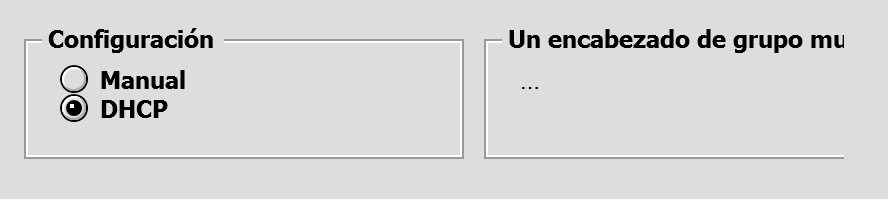
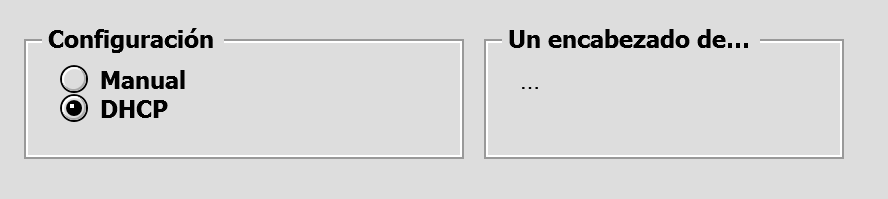
Cierra el recuadro cuyo título no cabe, y tres arreglos más
Un título más ancho que su recuadro dejaba el hueco de la máscara tan
largo como el marco entero. El tramo derecho de la máscara quedaba con
ancho negativo y desaparecían dos lados, el superior y el derecho, no uno.
Medido: en el corte del cuerpo no había filo derecho en cuatrocientos
píxeles.

El tope va sobre el ancho del propio título, con una resta. Un Grid de WPF
no encoge una columna Auto para que quepa —la deja desbordar—, así que ni
el mínimo de la columna elástica ni el tope al ancho del recuadro
bastaban.

El recorte con puntos suspensivos va como plantilla de datos para cadenas
y no como estilo implícito: un estilo declarado ahí no alcanza al TextBlock
que arma el presentador, y el título salía cortado a media letra.

La marca del modo Zones pierde su realce blanco de abajo. Sobre una franja
clara no se veía y sobre una oscura se leía como una raya suelta, y era el
único blanco del control que no salía de la paleta.

PlatinumNavItem y PlatinumToolButton copian su rótulo al nombre de
automatización. Guardan el texto en Text y no en Content, así que la
entrada quedaba sin nombre: ni un lector de pantalla ni una prueba
automática podían referirse a ella. Se descubrió porque el guion de pruebas
no encontraba una entrada del riel por su rótulo.

Changed region(s): [[0.8209, 0.1508, 0.973, 0.7839]]

diff --git a/src/MacOS9.Platinum/Themes/GroupBox.xaml b/src/MacOS9.Platinum/Themes/GroupBox.xaml
@@ -1,5 +1,7 @@
 <ResourceDictionary xmlns="http://schemas.microsoft.com/winfx/2006/xaml/presentation"
-                    xmlns:x="http://schemas.microsoft.com/winfx/2006/xaml">
+                    xmlns:x="http://schemas.microsoft.com/winfx/2006/xaml"
+                    xmlns:controls="clr-namespace:MacOS9.Platinum.Controls"
+                    xmlns:sys="clr-namespace:System;assembly=System.Runtime">
 
     <ResourceDictionary.MergedDictionaries>
         <ResourceDictionary Source="/MacOS9.Platinum;component/Themes/Palette.xaml" />
@@ -7,6 +9,7 @@
     </ResourceDictionary.MergedDictionaries>
 
     <BorderGapMaskConverter x:Key="BorderGapMask" />
+    <controls:SubtractConverter x:Key="RestarAncho" />
 
     <!-- Recuadro de agrupación: línea grabada —gris con su realce blanco al interior,-->
     <!-- el surco de dos tonos del Platinum original— con el título interrumpiéndola. -->
@@ -27,7 +30,13 @@
                         <Grid.ColumnDefinitions>
                             <ColumnDefinition Width="8" />
                             <ColumnDefinition Width="Auto" />
-                            <ColumnDefinition Width="*" />
+                            <!-- El mínimo de la columna elástica es lo que le deja
+                                 sitio al marco a la derecha del título. Sin él, un
+                                 título más ancho que su caja abre un hueco tan largo
+                                 como el marco entero, el tramo derecho de la máscara
+                                 queda con ancho negativo y desaparecen dos lados: el
+                                 superior y el derecho. -->
+                            <ColumnDefinition Width="*" MinWidth="28" />
                             <ColumnDefinition Width="8" />
                         </Grid.ColumnDefinitions>
                         <Grid.RowDefinitions>
@@ -59,12 +68,37 @@
 
                         <!-- El título va en negritas y el peso se fija en este
                              borde, no en el estilo: puesto arriba lo heredaría
-                             también el contenido del grupo. -->
+                             también el contenido del grupo.
+
+                             El ancho se limita al del recuadro y el texto se corta
+                             con puntos suspensivos. Sin el tope, un título más
+                             ancho que su caja deja el hueco de la máscara más largo
+                             que el marco, el tramo derecho queda con ancho negativo
+                             y desaparecen dos lados: el superior y el derecho. Un
+                             título recortado dice que la caja se quedó corta; un
+                             recuadro sin dos filos no dice nada. -->
                         <Border x:Name="Header"
                                 Grid.Row="0" Grid.RowSpan="2"
                                 Grid.Column="1"
                                 Padding="4,0"
-                                TextElement.FontWeight="Bold">
+                                TextElement.FontWeight="Bold"
+                                MaxWidth="{Binding ActualWidth,
+                                           RelativeSource={RelativeSource TemplatedParent},
+                                           Converter={StaticResource RestarAncho},
+                                           ConverterParameter=44}">
+                            <!-- El recorte va como plantilla de datos para cadenas y
+                                 no como estilo implícito: un estilo declarado aquí
+                                 no alcanza al TextBlock que arma el presentador, y
+                                 el título terminaba cortado a media letra. La
+                                 plantilla sí, que es el mecanismo que el presentador
+                                 consulta. Con un título que no sea texto no aplica y
+                                 se dibuja como antes. -->
+                            <Border.Resources>
+                                <DataTemplate DataType="{x:Type sys:String}">
+                                    <TextBlock Text="{Binding}"
+                                               TextTrimming="CharacterEllipsis" />
+                                </DataTemplate>
+                            </Border.Resources>
                             <ContentPresenter ContentSource="Header"
                                               RecognizesAccessKey="True" />
                         </Border>

diff --git a/src/MacOS9.Platinum/Controls/SubtractConverter.cs b/src/MacOS9.Platinum/Controls/SubtractConverter.cs
@@ -1,0 +1,38 @@
+using System;
+using System.Globalization;
+using System.Windows.Data;
+
+namespace MacOS9.Platinum.Controls;
+
+/// <summary>
+/// Resta un número fijo a una medida. Nunca devuelve menos de cero.
+/// </summary>
+/// <remarks>
+/// Existe por un caso concreto: el título de un recuadro de agrupación tiene que
+/// caber dejando sitio al marco de su derecha, y eso es el ancho del recuadro
+/// menos una cantidad. Un Grid no encoge una columna Auto para que quepa —la deja
+/// desbordar—, así que el tope va sobre el ancho del propio título y no hay forma
+/// de expresar la resta en el marcado sin esto.
+/// </remarks>
+public sealed class SubtractConverter : IValueConverter
+{
+    public object Convert(object value, Type targetType, object parameter, CultureInfo culture)
+    {
+        if (value is not double medida || double.IsNaN(medida) || double.IsInfinity(medida))
+        {
+            return double.PositiveInfinity;
+        }
+
+        double resta = 0;
+        if (parameter is not null)
+        {
+            double.TryParse(System.Convert.ToString(parameter, CultureInfo.InvariantCulture),
+                NumberStyles.Float, CultureInfo.InvariantCulture, out resta);
+        }
+
+        return Math.Max(0d, medida - resta);
+    }
+
+    public object ConvertBack(object value, Type targetType, object parameter, CultureInfo culture) =>
+        throw new NotSupportedException("La resta no se deshace: solo sirve para medir.");
+}

diff --git a/src/MacOS9.Platinum/Controls/PlatinumNavItem.cs b/src/MacOS9.Platinum/Controls/PlatinumNavItem.cs
@@ -39,7 +39,16 @@ public class PlatinumNavItem : ListBoxItem
             nameof(Text),
             typeof(string),
             typeof(PlatinumNavItem),
-            new FrameworkPropertyMetadata(string.Empty, FrameworkPropertyMetadataOptions.AffectsMeasure));
+            new FrameworkPropertyMetadata(string.Empty,
+                FrameworkPropertyMetadataOptions.AffectsMeasure, AlCambiarTexto));
+
+    // El rótulo vive en Text y no en Content, así que la automatización veía la
+    // entrada sin nombre: ni un lector de pantalla ni una prueba automática podían
+    // referirse a ella. El nombre se copia aquí para que las dos cosas coincidan.
+    private static void AlCambiarTexto(DependencyObject d, DependencyPropertyChangedEventArgs e)
+    {
+        System.Windows.Automation.AutomationProperties.SetName(d, (string)e.NewValue ?? string.Empty);
+    }
 
     public string Text
     {

diff --git a/src/MacOS9.Platinum/Controls/PlatinumToolButton.cs b/src/MacOS9.Platinum/Controls/PlatinumToolButton.cs
@@ -33,7 +33,15 @@ public class PlatinumToolButton : Button
 
     public static readonly DependencyProperty TextProperty =
         DependencyProperty.Register(nameof(Text), typeof(string), typeof(PlatinumToolButton),
-            new PropertyMetadata(""));
+            new PropertyMetadata("", AlCambiarTexto));
+
+    // El rótulo vive en Text y no en Content, así que la automatización veía la
+    // tecla sin nombre: ni un lector de pantalla ni una prueba automática podían
+    // referirse a ella. El nombre se copia aquí para que las dos cosas coincidan.
+    private static void AlCambiarTexto(DependencyObject d, DependencyPropertyChangedEventArgs e)
+    {
+        System.Windows.Automation.AutomationProperties.SetName(d, (string)e.NewValue ?? string.Empty);
+    }
 
     /// <summary>Rótulo bajo el icono.</summary>
     public string Text

diff --git a/src/MacOS9.Platinum/Controls/PlatinumLevelGauge.cs b/src/MacOS9.Platinum/Controls/PlatinumLevelGauge.cs
@@ -605,10 +605,13 @@ public class PlatinumLevelGauge : FrameworkElement
 
         // Línea de lado a lado y no un punto: sobre una zona de color, un punto se
         // pierde y una línea negra siempre se ve.
+        //
+        // Sin realce debajo. Lo llevaba, en blanco fijo, para despegar la marca del
+        // color; sobre una franja clara no se veía y sobre una oscura se leía como
+        // una raya suelta. Además era el único blanco del control que no salía de
+        // la paleta.
         dc.DrawRectangle(BorderBrush, null,
             new Rect(dentro.X, y - grosor, dentro.Width, grosor * 2));
-        dc.DrawRectangle(Brushes.White, null,
-            new Rect(dentro.X, y + grosor, dentro.Width, grosor));
     }
 
     private void CifraVertical(DrawingContext dc, Rect carril, Rect dentro, double fraccion,
